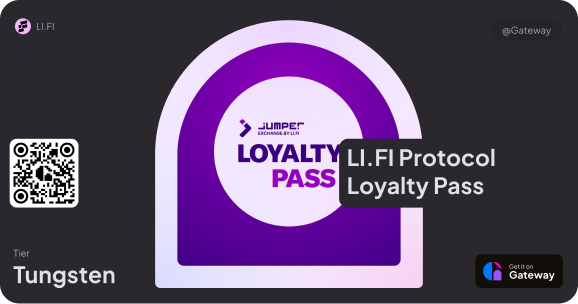
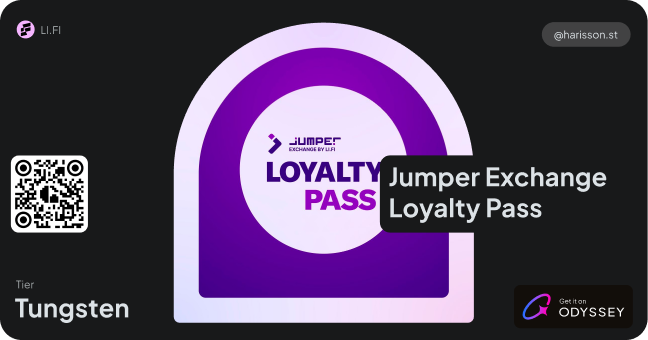
chore: loyalty pass images

diff --git a/src/components/templates/og-image/og-image-loyalty-pass.tsx b/src/components/templates/og-image/og-image-loyalty-pass.tsx
@@ -329,7 +329,7 @@ export default function OgImageLoyaltyPass({
                   left: '56px',
                 }}
               >
-                Gateway
+                Odyssey
               </div>
               <img
                 src={`${origin}/logo.png`}
